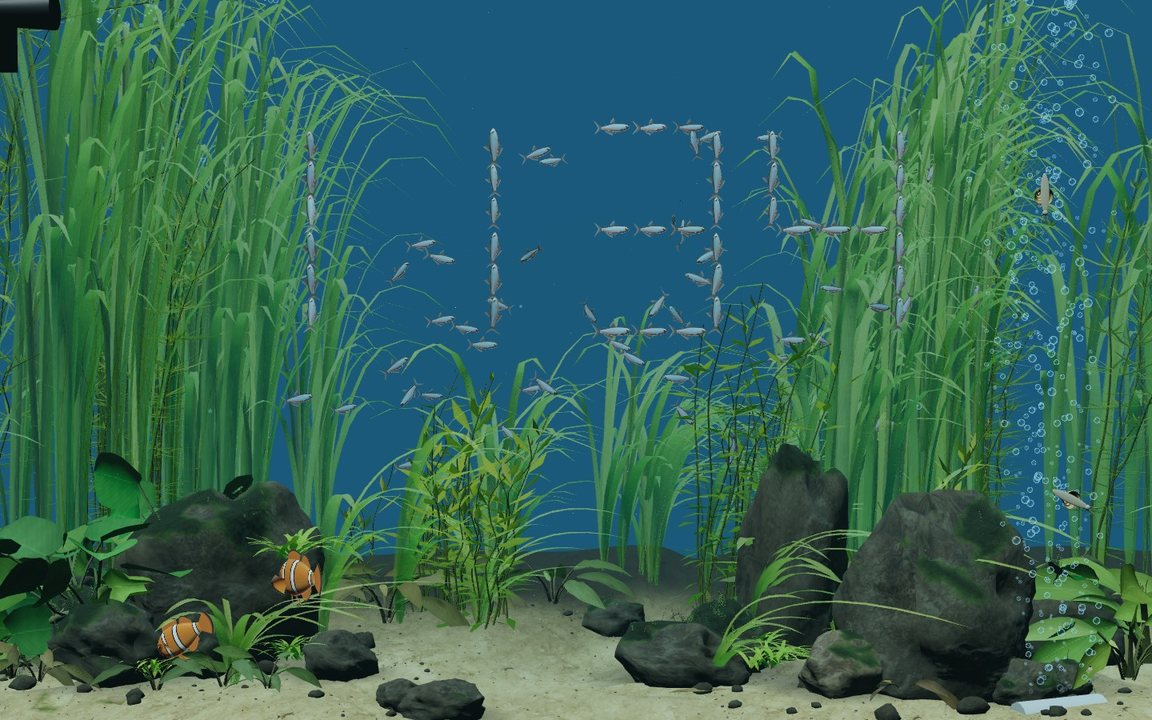
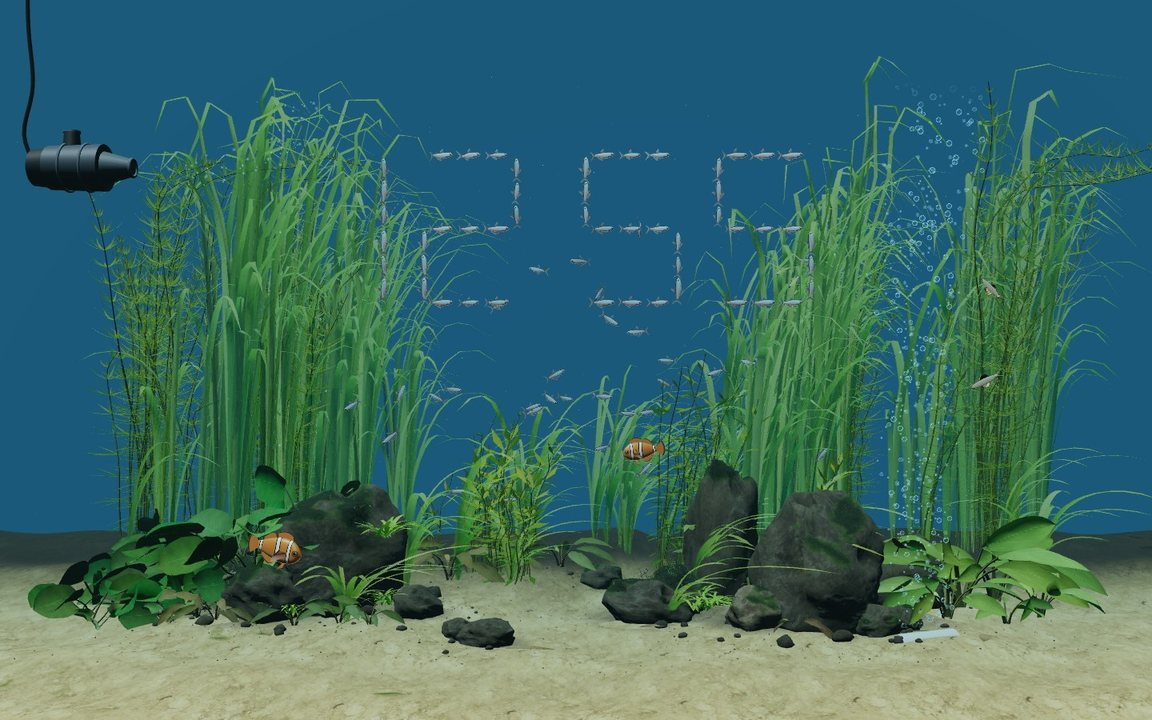
Added zoomed out view and viewimproved water pump

diff --git a/index.html b/index.html
@@ -2044,7 +2044,9 @@ async function createEnvironment(scene) {
     surface(loader, "rock_boulder_dry", [1.8, 1.4], 0x62665d, "#2e4315"),
     // PATCH (Aqua Clock): a paler, warmer tan, closer to cured driftwood
     surface(loader, "rough_wood", [2.1, 1.4], 0xeccb9a, "#334a16"),
-    surface(loader, "sand_01", [10, 6], 0xf4e5c8, "#5a5a26", "#23401a"),
+    // PATCH (Aqua Clock): the sand is 44 wide, not 24 (see `ground` below), so its texture repeats
+    // 18 times across it, not 10, which keeps the grain the same size.
+    surface(loader, "sand_01", [18, 6], 0xf4e5c8, "#5a5a26", "#23401a"),
   ]);
   rockMaterial.normalScale.set(0.85, 0.85);
   woodMaterial.roughness = 0.86;
@@ -2090,7 +2092,10 @@ async function createEnvironment(scene) {
     }
   };
 
-  const ground = new THREE.PlaneGeometry(24, 18, 200, 140);
+  // PATCH (Aqua Clock): 44 wide, to match the back panel, with the same vertex density. Habitats'
+  // 24 is just wide enough for its own lens; the full screen view here is wider, and showed the
+  // ends of the sand as the edges of an island.
+  const ground = new THREE.PlaneGeometry(44, 18, 367, 140);
   ground.rotateX(-Math.PI / 2);
   const position = ground.attributes.position;
   const groundColors = [];
@@ -3974,7 +3979,7 @@ function createBubbles(scene, cfg) {
   function spawnPump() {
     const b = take(); if (!b) return;
     b.on = true; b.kind = 1; b.age = 0;
-    b.x = pump.x + 1.55; b.y = pump.y - 0.1 + rand(-0.2, 0.2); b.z = pump.z + rand(-0.55, 0.3);
+    b.x = pump.x + (pump.outlet ?? 1.55); b.y = pump.y - 0.1 + rand(-0.2, 0.2); b.z = pump.z + rand(-0.55, 0.3);
     b.r0 = b.r = rand(0.016, 0.036);
     b.vx = rand(2.2, 3.6); b.vy = rand(-0.25, 0.1);
     b.freq = rand(2, 5); b.phase = rand(0, 6.283);
@@ -5385,24 +5390,53 @@ async function createRiverscape(canvas, options = {}) {
 
   const BED = (x, z) => groundHeight(x, z);
 
-  const PUMP = { x: -7.9, y: 8.5, z: 1.4 };
-  {
-    const housing = new THREE.Mesh(
-      new THREE.BoxGeometry(1.9, 1.5, 1.1),
-      new THREE.MeshStandardMaterial({ color: '#0f1316', roughness: 0.45, metalness: 0.3 }),
-    );
-    housing.position.set(PUMP.x, PUMP.y, PUMP.z);
-    housing.castShadow = true;
-    scene.add(housing);
+  // The pump sits at the left edge, cropped by the screen. The full screen view uses a wider
+  // lens, which would show the whole housing as a plain black box in the corner, so in that
+  // mode it moves further out (see setFullView).
+  let fullView = false;
+  // x is where its body is centred; `outlet` is how far to the right of that the water leaves
+  // the nozzle, which is where the bubbles it entrains begin.
+  const PUMP = { x: -7.9, y: 8.5, z: 1.4, outlet: 1.2 };
 
-    const nozzle = new THREE.Mesh(
-      new THREE.CylinderGeometry(0.18, 0.23, 0.7, 12),
-      new THREE.MeshStandardMaterial({ color: '#161c20', roughness: 0.5 }),
-    );
-    nozzle.rotation.z = Math.PI / 2;
-    nozzle.position.set(PUMP.x + 1.25, PUMP.y - 0.1, PUMP.z);
-    scene.add(nozzle);
+  /*
+   * A small aquarium pump of the kind that hangs in a tank on a suction cup: a rounded
+   * cylindrical body with two raised bands, a darker rear cap, a tapered outlet nozzle with a
+   * lighter rim, a short intake stub on top, and a power cable that loops up and out of the
+   * water. It is about half the size of the black box it replaces.
+   */
+  function buildPump() {
+    const group = new THREE.Group();
+    const dark = (color, roughness = 0.5, metalness = 0.2) => new THREE.MeshStandardMaterial({ color, roughness, metalness });
+    const bodyMat = dark('#37444f'), capMat = dark('#1f272d'), bandMat = dark('#566673', 0.4, 0.3), nozzleMat = dark('#415059'), cableMat = dark('#0b0d0f', 0.7, 0);
+    const part = (geometry, material, x, y, z, rx = 0, ry = 0, rz = 0) => {
+      const mesh = new THREE.Mesh(geometry, material);
+      mesh.position.set(x, y, z);
+      mesh.rotation.set(rx, ry, rz);
+      mesh.castShadow = true;
+      group.add(mesh);
+      return mesh;
+    };
+    const along = Math.PI / 2; // cylinders stand on y; this lays them along x
+    part(new THREE.CylinderGeometry(0.4, 0.43, 1.0, 28), bodyMat, 0, 0, 0, 0, 0, along);              // the body
+    part(new THREE.CylinderGeometry(0.33, 0.37, 0.32, 24), capMat, -0.64, 0, 0, 0, 0, along);        // the motor cap
+    part(new THREE.TorusGeometry(0.43, 0.024, 8, 32), bandMat, -0.18, 0, 0, 0, along, 0);            // two raised bands
+    part(new THREE.TorusGeometry(0.43, 0.024, 8, 32), bandMat, 0.2, 0, 0, 0, along, 0);
+    part(new THREE.CylinderGeometry(0.16, 0.3, 0.5, 24), nozzleMat, 0.75, 0, 0, 0, 0, -along);       // the outlet, narrowing to the right
+    part(new THREE.TorusGeometry(0.16, 0.03, 8, 24), bandMat, 1.0, 0, 0, 0, along, 0);               // its rim
+    part(new THREE.CylinderGeometry(0.13, 0.16, 0.28, 18), capMat, -0.12, 0.5, 0);                   // the intake stub on top
+    part(new THREE.CylinderGeometry(0.15, 0.15, 0.04, 18), bandMat, -0.12, 0.66, 0);                 // and its cap
+    // the power cable: out of the rear cap, curling up and away above the water
+    const cable = new THREE.CatmullRomCurve3([
+      new THREE.Vector3(-0.8, 0.05, 0), new THREE.Vector3(-1.0, 0.6, 0), new THREE.Vector3(-0.85, 1.5, 0),
+      new THREE.Vector3(-0.95, 2.8, 0), new THREE.Vector3(-0.9, 6.0, 0),
+    ]);
+    const cableMesh = new THREE.Mesh(new THREE.TubeGeometry(cable, 40, 0.035, 6, false), cableMat);
+    group.add(cableMesh);
+    return group;
   }
+  const pumpGroup = buildPump();
+  pumpGroup.position.set(PUMP.x, PUMP.y, PUMP.z);
+  scene.add(pumpGroup);
 
   // An air stone is a small pale porous cylinder, not a black one. It sits on
   // open sand clear of the hero text, and every bubble in the tank comes from
@@ -5793,6 +5827,30 @@ async function createRiverscape(canvas, options = {}) {
     }
     return frame;
   }
+  /*
+   * The full screen view zooms out a little. The page calls this whenever that mode is
+   * entered or left. Everything that depends on the lens (the clock's layout, the air
+   * stone, the snails' strip) is worked out again from the camera in resize(), and the pump
+   * moves so the wider lens does not show its whole housing.
+   */
+  function setFullView(on) {
+    on = !!on;
+    if (on === fullView) return;
+    fullView = on;
+    resize(); // which also places the pump
+  }
+  // The pump sits at the left edge, partly cropped, as it always has. In the full screen view
+  // on a landscape screen the lens is wide enough to show all of it, so it is set a little in
+  // from the edge, whatever the screen's width. Upright screens keep it out of view.
+  function placePump() {
+    if (fullView && camera.aspect >= 1.25) {
+      const halfWidth = Math.tan((camera.fov * Math.PI) / 360) * camera.aspect * (camera.position.z - PUMP.z);
+      PUMP.x = -(halfWidth - 1.4);
+    } else {
+      PUMP.x = -7.9;
+    }
+    pumpGroup.position.x = PUMP.x; // the bubbles read PUMP.x each time one is made
+  }
   function setClockArea(top, bottom) {
     // a band too thin to hold digits is ignored, and the default layout is used
     clockArea = top != null && bottom != null && bottom - top > 80 ? { top, bottom } : null;
@@ -6159,7 +6217,11 @@ async function createRiverscape(canvas, options = {}) {
     // Riverscape's lens is tuned for a landscape screen. On a narrow one it would
     // show a slice of tank barely four units wide, so the lens widens as the
     // screen narrows (to at most 42 degrees) rather than losing the scene.
-    camera.fov = camera.aspect < 1.25 ? clamp(25.8 * Math.sqrt(1.25 / camera.aspect), 25.8, 42) : 25.8;
+    // Habitats' own lens is 25.8 degrees. The full screen view is wider (38), so much more of
+    // the tank shows. Narrower screens widen it further (up to 42), as they always did, so
+    // the upright phone view is unchanged; taking the larger of the two keeps it continuous as
+    // a window changes shape.
+    camera.fov = Math.max(fullView ? 38 : 25.8, clamp(25.8 * Math.sqrt(1.25 / camera.aspect), 25.8, 42));
     // a wider lens also sees further down, past the end of the substrate, so it
     // looks up a little as it widens
     camera.lookAt(0, 4.15 + (camera.fov - 25.8) * 0.07, 0);
@@ -6167,6 +6229,7 @@ async function createRiverscape(canvas, options = {}) {
     camera.updateMatrixWorld(true);
     placeStone();
     snails.setArea(snailArea());
+    placePump();
     bubbles.setViewport(renderer.domElement.height, camera.fov);
     assignments = clockAssignments(new Date(), viewFrame());
   }
@@ -6205,7 +6268,7 @@ async function createRiverscape(canvas, options = {}) {
     renderer.dispose();
   }
 
-  return { feed, showTime, advance, setClockArea, dispose, quality, scene, camera, debug: { clowns, obstacles, HOST, snails: snails.list, snailArea } };
+  return { feed, showTime, advance, setClockArea, setFullView, dispose, quality, scene, camera, debug: { clowns, obstacles, HOST, snails: snails.list, snailArea } };
 }
 
       const canvas = document.getElementById('scene');
@@ -6229,6 +6292,8 @@ async function createRiverscape(canvas, options = {}) {
       // it and tell the scene, which lays the digits out in that band.
       if (habitat && habitat.setClockArea) {
         const place = () => {
+          // the full screen view zooms out a little; the normal page keeps the original lens
+          if (habitat.setFullView) habitat.setFullView(document.body.classList.contains('full'));
           if (document.body.classList.contains('full')) return habitat.setClockArea(null, null);
           const shown = [...document.querySelectorAll('.page h1, .page .sub, .page .cta')].filter((el) => el.getClientRects().length > 0);
           if (!shown.length) return habitat.setClockArea(null, null);

diff --git a/src/scene/riverscape.js b/src/scene/riverscape.js
@@ -1073,24 +1073,53 @@ export async function createRiverscape(canvas, options = {}) {
 
   const BED = (x, z) => groundHeight(x, z);
 
-  const PUMP = { x: -7.9, y: 8.5, z: 1.4 };
-  {
-    const housing = new THREE.Mesh(
-      new THREE.BoxGeometry(1.9, 1.5, 1.1),
-      new THREE.MeshStandardMaterial({ color: '#0f1316', roughness: 0.45, metalness: 0.3 }),
-    );
-    housing.position.set(PUMP.x, PUMP.y, PUMP.z);
-    housing.castShadow = true;
-    scene.add(housing);
+  // The pump sits at the left edge, cropped by the screen. The full screen view uses a wider
+  // lens, which would show the whole housing as a plain black box in the corner, so in that
+  // mode it moves further out (see setFullView).
+  let fullView = false;
+  // x is where its body is centred; `outlet` is how far to the right of that the water leaves
+  // the nozzle, which is where the bubbles it entrains begin.
+  const PUMP = { x: -7.9, y: 8.5, z: 1.4, outlet: 1.2 };
 
-    const nozzle = new THREE.Mesh(
-      new THREE.CylinderGeometry(0.18, 0.23, 0.7, 12),
-      new THREE.MeshStandardMaterial({ color: '#161c20', roughness: 0.5 }),
-    );
-    nozzle.rotation.z = Math.PI / 2;
-    nozzle.position.set(PUMP.x + 1.25, PUMP.y - 0.1, PUMP.z);
-    scene.add(nozzle);
+  /*
+   * A small aquarium pump of the kind that hangs in a tank on a suction cup: a rounded
+   * cylindrical body with two raised bands, a darker rear cap, a tapered outlet nozzle with a
+   * lighter rim, a short intake stub on top, and a power cable that loops up and out of the
+   * water. It is about half the size of the black box it replaces.
+   */
+  function buildPump() {
+    const group = new THREE.Group();
+    const dark = (color, roughness = 0.5, metalness = 0.2) => new THREE.MeshStandardMaterial({ color, roughness, metalness });
+    const bodyMat = dark('#37444f'), capMat = dark('#1f272d'), bandMat = dark('#566673', 0.4, 0.3), nozzleMat = dark('#415059'), cableMat = dark('#0b0d0f', 0.7, 0);
+    const part = (geometry, material, x, y, z, rx = 0, ry = 0, rz = 0) => {
+      const mesh = new THREE.Mesh(geometry, material);
+      mesh.position.set(x, y, z);
+      mesh.rotation.set(rx, ry, rz);
+      mesh.castShadow = true;
+      group.add(mesh);
+      return mesh;
+    };
+    const along = Math.PI / 2; // cylinders stand on y; this lays them along x
+    part(new THREE.CylinderGeometry(0.4, 0.43, 1.0, 28), bodyMat, 0, 0, 0, 0, 0, along);              // the body
+    part(new THREE.CylinderGeometry(0.33, 0.37, 0.32, 24), capMat, -0.64, 0, 0, 0, 0, along);        // the motor cap
+    part(new THREE.TorusGeometry(0.43, 0.024, 8, 32), bandMat, -0.18, 0, 0, 0, along, 0);            // two raised bands
+    part(new THREE.TorusGeometry(0.43, 0.024, 8, 32), bandMat, 0.2, 0, 0, 0, along, 0);
+    part(new THREE.CylinderGeometry(0.16, 0.3, 0.5, 24), nozzleMat, 0.75, 0, 0, 0, 0, -along);       // the outlet, narrowing to the right
+    part(new THREE.TorusGeometry(0.16, 0.03, 8, 24), bandMat, 1.0, 0, 0, 0, along, 0);               // its rim
+    part(new THREE.CylinderGeometry(0.13, 0.16, 0.28, 18), capMat, -0.12, 0.5, 0);                   // the intake stub on top
+    part(new THREE.CylinderGeometry(0.15, 0.15, 0.04, 18), bandMat, -0.12, 0.66, 0);                 // and its cap
+    // the power cable: out of the rear cap, curling up and away above the water
+    const cable = new THREE.CatmullRomCurve3([
+      new THREE.Vector3(-0.8, 0.05, 0), new THREE.Vector3(-1.0, 0.6, 0), new THREE.Vector3(-0.85, 1.5, 0),
+      new THREE.Vector3(-0.95, 2.8, 0), new THREE.Vector3(-0.9, 6.0, 0),
+    ]);
+    const cableMesh = new THREE.Mesh(new THREE.TubeGeometry(cable, 40, 0.035, 6, false), cableMat);
+    group.add(cableMesh);
+    return group;
   }
+  const pumpGroup = buildPump();
+  pumpGroup.position.set(PUMP.x, PUMP.y, PUMP.z);
+  scene.add(pumpGroup);
 
   // An air stone is a small pale porous cylinder, not a black one. It sits on
   // open sand clear of the hero text, and every bubble in the tank comes from
@@ -1481,6 +1510,30 @@ export async function createRiverscape(canvas, options = {}) {
     }
     return frame;
   }
+  /*
+   * The full screen view zooms out a little. The page calls this whenever that mode is
+   * entered or left. Everything that depends on the lens (the clock's layout, the air
+   * stone, the snails' strip) is worked out again from the camera in resize(), and the pump
+   * moves so the wider lens does not show its whole housing.
+   */
+  function setFullView(on) {
+    on = !!on;
+    if (on === fullView) return;
+    fullView = on;
+    resize(); // which also places the pump
+  }
+  // The pump sits at the left edge, partly cropped, as it always has. In the full screen view
+  // on a landscape screen the lens is wide enough to show all of it, so it is set a little in
+  // from the edge, whatever the screen's width. Upright screens keep it out of view.
+  function placePump() {
+    if (fullView && camera.aspect >= 1.25) {
+      const halfWidth = Math.tan((camera.fov * Math.PI) / 360) * camera.aspect * (camera.position.z - PUMP.z);
+      PUMP.x = -(halfWidth - 1.4);
+    } else {
+      PUMP.x = -7.9;
+    }
+    pumpGroup.position.x = PUMP.x; // the bubbles read PUMP.x each time one is made
+  }
   function setClockArea(top, bottom) {
     // a band too thin to hold digits is ignored, and the default layout is used
     clockArea = top != null && bottom != null && bottom - top > 80 ? { top, bottom } : null;
@@ -1847,7 +1900,11 @@ export async function createRiverscape(canvas, options = {}) {
     // Riverscape's lens is tuned for a landscape screen. On a narrow one it would
     // show a slice of tank barely four units wide, so the lens widens as the
     // screen narrows (to at most 42 degrees) rather than losing the scene.
-    camera.fov = camera.aspect < 1.25 ? clamp(25.8 * Math.sqrt(1.25 / camera.aspect), 25.8, 42) : 25.8;
+    // Habitats' own lens is 25.8 degrees. The full screen view is wider (38), so much more of
+    // the tank shows. Narrower screens widen it further (up to 42), as they always did, so
+    // the upright phone view is unchanged; taking the larger of the two keeps it continuous as
+    // a window changes shape.
+    camera.fov = Math.max(fullView ? 38 : 25.8, clamp(25.8 * Math.sqrt(1.25 / camera.aspect), 25.8, 42));
     // a wider lens also sees further down, past the end of the substrate, so it
     // looks up a little as it widens
     camera.lookAt(0, 4.15 + (camera.fov - 25.8) * 0.07, 0);
@@ -1855,6 +1912,7 @@ export async function createRiverscape(canvas, options = {}) {
     camera.updateMatrixWorld(true);
     placeStone();
     snails.setArea(snailArea());
+    placePump();
     bubbles.setViewport(renderer.domElement.height, camera.fov);
     assignments = clockAssignments(new Date(), viewFrame());
   }
@@ -1893,5 +1951,5 @@ export async function createRiverscape(canvas, options = {}) {
     renderer.dispose();
   }
 
-  return { feed, showTime, advance, setClockArea, dispose, quality, scene, camera, debug: { clowns, obstacles, HOST, snails: snails.list, snailArea } };
+  return { feed, showTime, advance, setClockArea, setFullView, dispose, quality, scene, camera, debug: { clowns, obstacles, HOST, snails: snails.list, snailArea } };
 }

diff --git a/src/scene/riverscape/environment.js b/src/scene/riverscape/environment.js
@@ -545,7 +545,9 @@ export async function createEnvironment(scene) {
     surface(loader, "rock_boulder_dry", [1.8, 1.4], 0x62665d, "#2e4315"),
     // PATCH (Aqua Clock): a paler, warmer tan, closer to cured driftwood
     surface(loader, "rough_wood", [2.1, 1.4], 0xeccb9a, "#334a16"),
-    surface(loader, "sand_01", [10, 6], 0xf4e5c8, "#5a5a26", "#23401a"),
+    // PATCH (Aqua Clock): the sand is 44 wide, not 24 (see `ground` below), so its texture repeats
+    // 18 times across it, not 10, which keeps the grain the same size.
+    surface(loader, "sand_01", [18, 6], 0xf4e5c8, "#5a5a26", "#23401a"),
   ]);
   rockMaterial.normalScale.set(0.85, 0.85);
   woodMaterial.roughness = 0.86;
@@ -591,7 +593,10 @@ export async function createEnvironment(scene) {
     }
   };
 
-  const ground = new THREE.PlaneGeometry(24, 18, 200, 140);
+  // PATCH (Aqua Clock): 44 wide, to match the back panel, with the same vertex density. Habitats'
+  // 24 is just wide enough for its own lens; the full screen view here is wider, and showed the
+  // ends of the sand as the edges of an island.
+  const ground = new THREE.PlaneGeometry(44, 18, 367, 140);
   ground.rotateX(-Math.PI / 2);
   const position = ground.attributes.position;
   const groundColors = [];

diff --git a/src/scene/bubbles.js b/src/scene/bubbles.js
@@ -161,7 +161,7 @@ export function createBubbles(scene, cfg) {
   function spawnPump() {
     const b = take(); if (!b) return;
     b.on = true; b.kind = 1; b.age = 0;
-    b.x = pump.x + 1.55; b.y = pump.y - 0.1 + rand(-0.2, 0.2); b.z = pump.z + rand(-0.55, 0.3);
+    b.x = pump.x + (pump.outlet ?? 1.55); b.y = pump.y - 0.1 + rand(-0.2, 0.2); b.z = pump.z + rand(-0.55, 0.3);
     b.r0 = b.r = rand(0.016, 0.036);
     b.vx = rand(2.2, 3.6); b.vy = rand(-0.25, 0.1);
     b.freq = rand(2, 5); b.phase = rand(0, 6.283);

diff --git a/src/scene/riverscape/NOTICE.md b/src/scene/riverscape/NOTICE.md
@@ -8,7 +8,7 @@
 planting, foliage and water lighting.
 
 `math.js` and `foliage.js` are unchanged. Every other change is marked
-`PATCH (Aqua Clock)` in the source and is one of seven kinds:
+`PATCH (Aqua Clock)` in the source and is one of eight kinds:
 
 1. **Textures** (`environment.js`): the Poly Haven maps are loaded from inlined data URIs
    rather than a relative `assets/` path, because the page is a single self-contained file.
@@ -39,6 +39,12 @@ planting, foliage and water lighting.
    stand of stem plants behind it and low rosettes round the stones; the grass beds re-weighted (the right bed heavier, the
    middle-back thinned and lowered); the middle-back feathery stand lowered; and the three
    fern tufts that sat on Habitats' trunk moved into the crevices of our stones.
+
+8. **Sand width** (`environment.js`): the sand mesh is 44 wide, not 24, with the vertex density
+   kept (367 segments across, not 200) and its texture repeated 18 times across it, not 10, so
+   the grain stays the same size. Habitats' 24 is just wide enough for its own lens; this
+   project's full screen view is wider, and showed the ends of the sand as the edges of an
+   island. The ground's shape is an analytic function, so nothing else depends on the width.
 
 The Poly Haven textures (`../textures.js`) are CC0: Rock Boulder Dry, Rough Wood and
 Sand 01, downscaled to 512px. See `THIRD-PARTY.md` at the repo root.

diff --git a/docs/DEVICE-TESTING.md b/docs/DEVICE-TESTING.md
@@ -41,8 +41,9 @@ model and iOS version. The footer says `render lite` or `render rich`.
 
 ## 2c. Full screen
 
-Tap **Full screen**. All text goes; tap or move to bring back three icons (time,
-feed, exit) for three seconds. `F` toggles and `Esc` leaves it on a keyboard.
+Tap **Full screen**. All text goes, the view zooms out (a wider lens, so more of the
+tank shows), and tapping or moving brings back three icons (time, feed, exit) for
+three seconds. `F` toggles and `Esc` leaves it on a keyboard.
 iPad Safari may go truly fullscreen; iPhone Safari cannot, so the text hides but the
 address bar stays. For no browser chrome at all: open the page with `#full` on the
 end, then Share > Add to Home Screen, and launch it from the icon. Not tested on a
